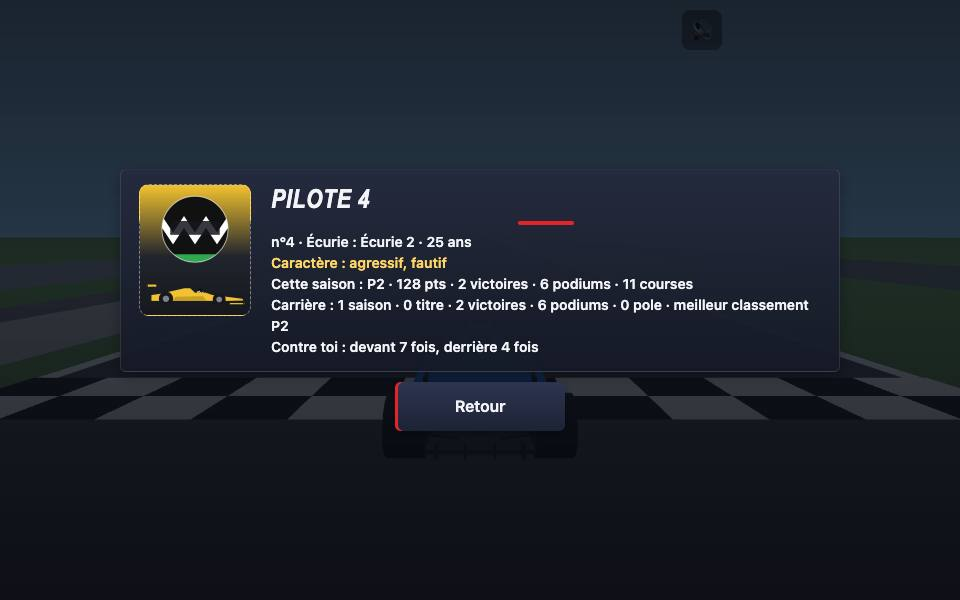
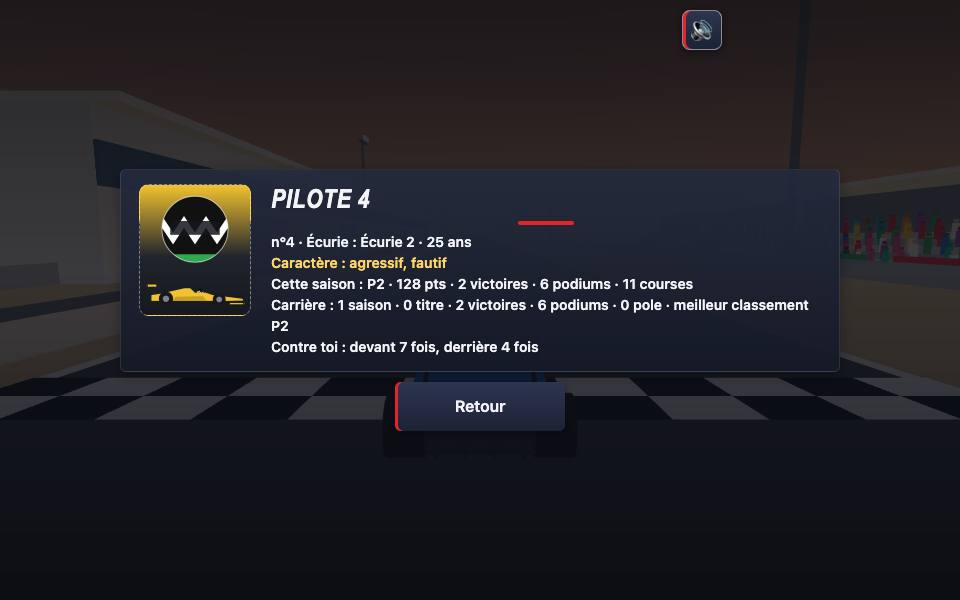
Tour 32 : le bouton du son au-dessus du voile des écrans, captures après refaites

diff --git a/style.css b/style.css
@@ -1154,6 +1154,7 @@ body.deux.cote #boutonSon { top: auto; bottom: 12px; right: 12px; }   /* (côte 
 /* le bouton du son, lisible sur la 3D comme sur le voile sombre des écrans */
 #boutonSon { background: var(--tv-bouton); border: 1px solid rgba(255, 255, 255, 0.45); box-shadow: inset 3px 0 0 var(--tv-rouge), 0 2px 10px rgba(0, 0, 0, 0.5); color: var(--tv-texte); }
 #boutonSon:hover { box-shadow: inset 3px 0 0 var(--tv-rouge), var(--tv-halo); }
+#boutonSon { z-index: 20; }   /* au-dessus du voile des écrans (il était dessous, donc gris sur gris) */
 
 /* le chrono, le tour et les secteurs : le panneau du haut, avec le liseré rouge de la chaîne */
 #hudCourse { background: var(--tv-hud); border: var(--tv-hud-bord); border-top: 3px solid var(--tv-rouge); border-radius: var(--tv-coin); box-shadow: var(--tv-hud-ombre); font-family: var(--tv-police); }

diff --git a/rapports/tour-32-compte-rendu-codeur3.md b/rapports/tour-32-compte-rendu-codeur3.md
@@ -63,7 +63,7 @@ Ordres : 1 fait / 2 fait.
 Réévalue.
 
 ## Suite : le thème télé en course, le podium et les résultats — commit 096e53d, passage GitHub 40585896401 : les 11 travaux verts
-- **Le bouton 🔊** : une plaque avec un bord clair et le liseré rouge. Il est lisible sur la 3D comme sur le voile des écrans.
+- **Le bouton 🔊** : une plaque avec un bord clair et le liseré rouge, passée au-dessus du voile des écrans (`z-index`). Il était dessous, d'où le gris sur gris. Il est maintenant lisible partout.
 - **En course**, un bloc CSS à moi, à la fin de `style.css`, sur les mêmes variables `--tv-*` :
   - le chrono et les secteurs, la tour de classement, les pneus, les messages, la pénalité et les stands, les feux, la jauge et le résultat du départ : tous sur le même panneau sombre, avec le liseré rouge en haut du chrono, de la tour et des feux ;
   - les temps en chiffres de largeur fixe ;
